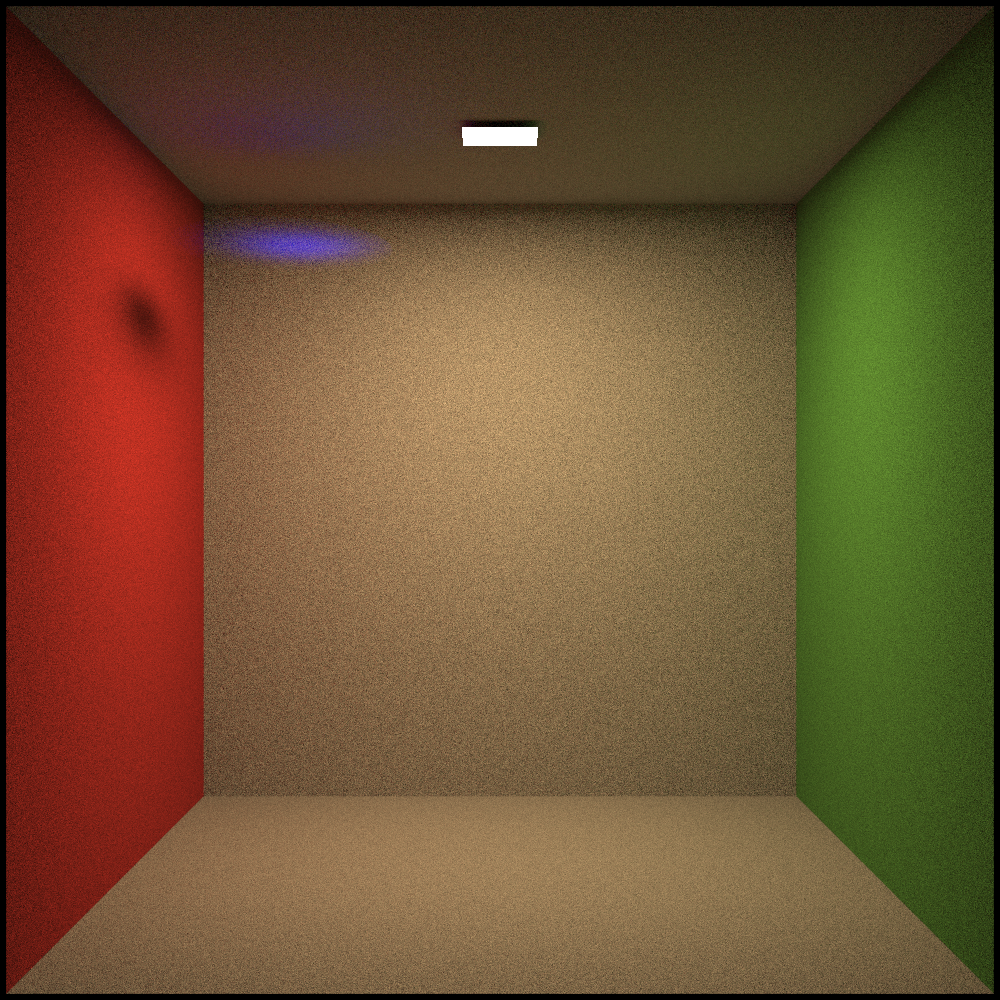
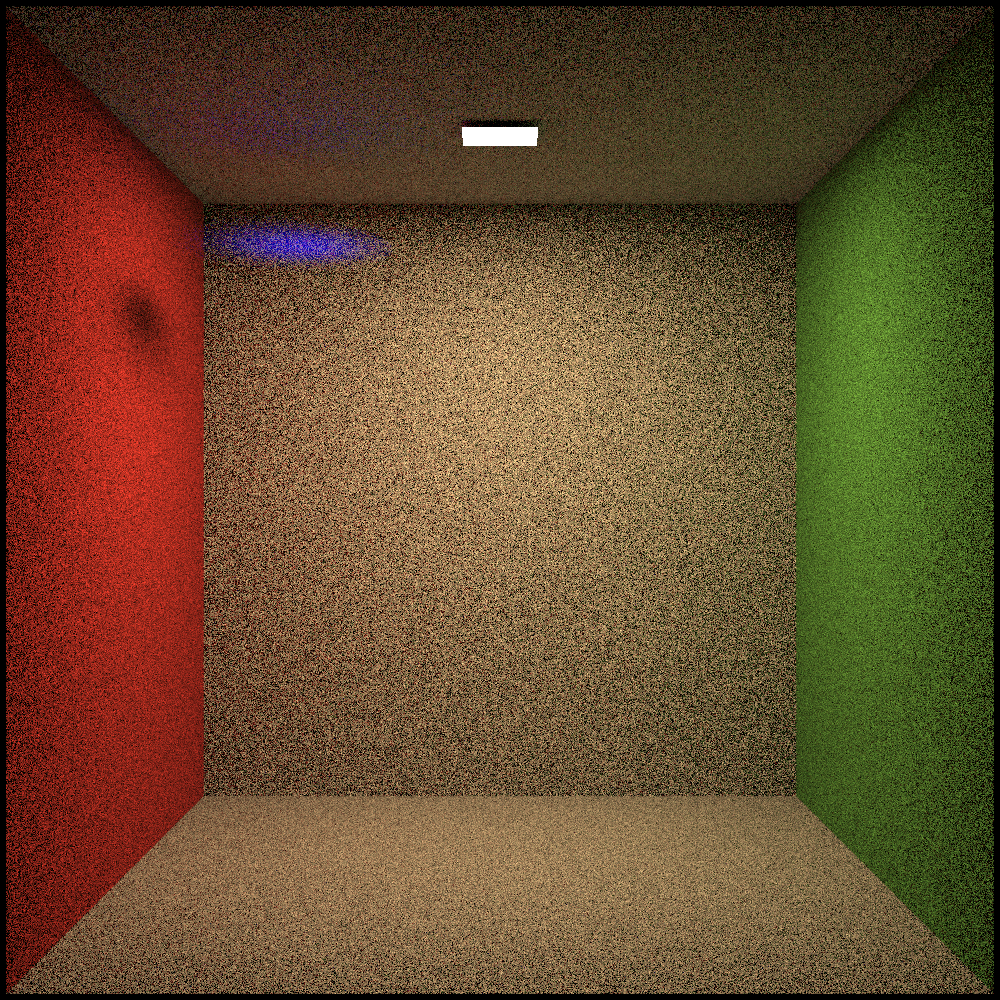
Wip rendering more 2dgs primitives

diff --git a/Pale/Renderer/PathTracer.cpp b/Pale/Renderer/PathTracer.cpp
@@ -133,7 +133,7 @@ namespace Pale {
 #ifdef NDEBUG
         const float k     = 20.0f;
 #else
-        const float k     = 1000.0f;
+        const float k     = 20.0f;
 #endif
 
         const float r0    = sycl::sqrt((k * Adiff) / (N * float(M_PI)));
